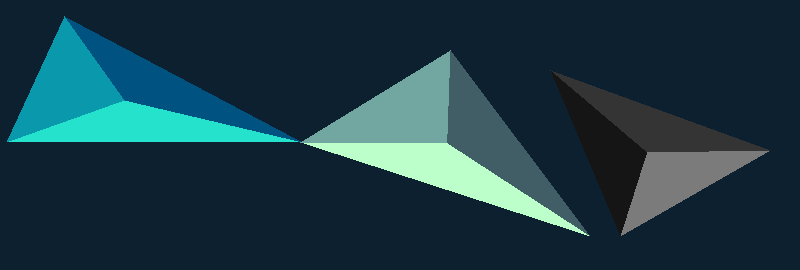
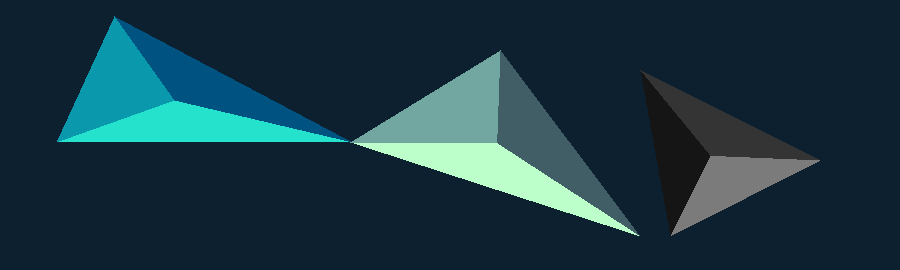
Increase size of triangles example image

diff --git a/examples/gfx-example-triangles/gfx-example-triangles.go b/examples/gfx-example-triangles/gfx-example-triangles.go
@@ -6,13 +6,13 @@ var p = gfx.PaletteFamicube
 
 func main() {
 	n := 50
-	m := gfx.NewPaletted(800, 270, p, p.Color(n+7))
+	m := gfx.NewPaletted(900, 270, p, p.Color(n+7))
 	t := gfx.NewDrawTarget(m)
 
 	t.MakeTriangles(&gfx.TrianglesData{
-		vx(64, 16, n+1), vx(6, 142, n+2), vx(302, 142, n+3),
-		vx(300, 142, n+4), vx(450, 50, n+5), vx(590, 236, n+6),
-		vx(550, 70, n+8), vx(770, 150, n+9), vx(620, 236, n+10),
+		vx(114, 16, n+1), vx(56, 142, n+2), vx(352, 142, n+3),
+		vx(350, 142, n+4), vx(500, 50, n+5), vx(640, 236, n+6),
+		vx(640, 70, n+8), vx(820, 160, n+9), vx(670, 236, n+10),
 	}).Draw()
 
 	gfx.SavePNG("gfx-example-triangles.png", m)

diff --git a/README.md b/README.md
@@ -23,13 +23,13 @@ var p = gfx.PaletteFamicube
 
 func main() {
 	n := 50
-	m := gfx.NewPaletted(800, 270, p, p.Color(n+7))
+	m := gfx.NewPaletted(900, 270, p, p.Color(n+7))
 	t := gfx.NewDrawTarget(m)
 
 	t.MakeTriangles(&gfx.TrianglesData{
-		vx(64, 16, n+1), vx(6, 142, n+2), vx(302, 142, n+3),
-		vx(300, 142, n+4), vx(450, 50, n+5), vx(590, 236, n+6),
-		vx(550, 70, n+8), vx(770, 150, n+9), vx(620, 236, n+10),
+		vx(114, 16, n+1), vx(56, 142, n+2), vx(352, 142, n+3),
+		vx(350, 142, n+4), vx(500, 50, n+5), vx(640, 236, n+6),
+		vx(640, 70, n+8), vx(820, 160, n+9), vx(670, 236, n+10),
 	}).Draw()
 
 	gfx.SavePNG("gfx-example-triangles.png", m)
